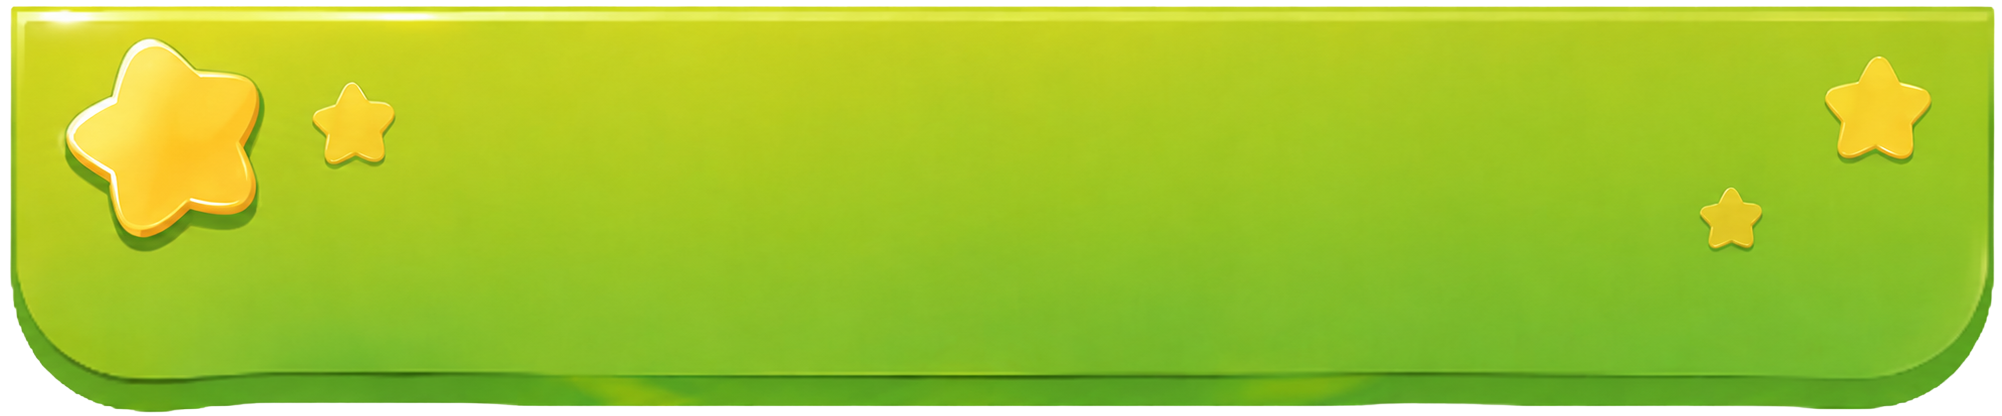
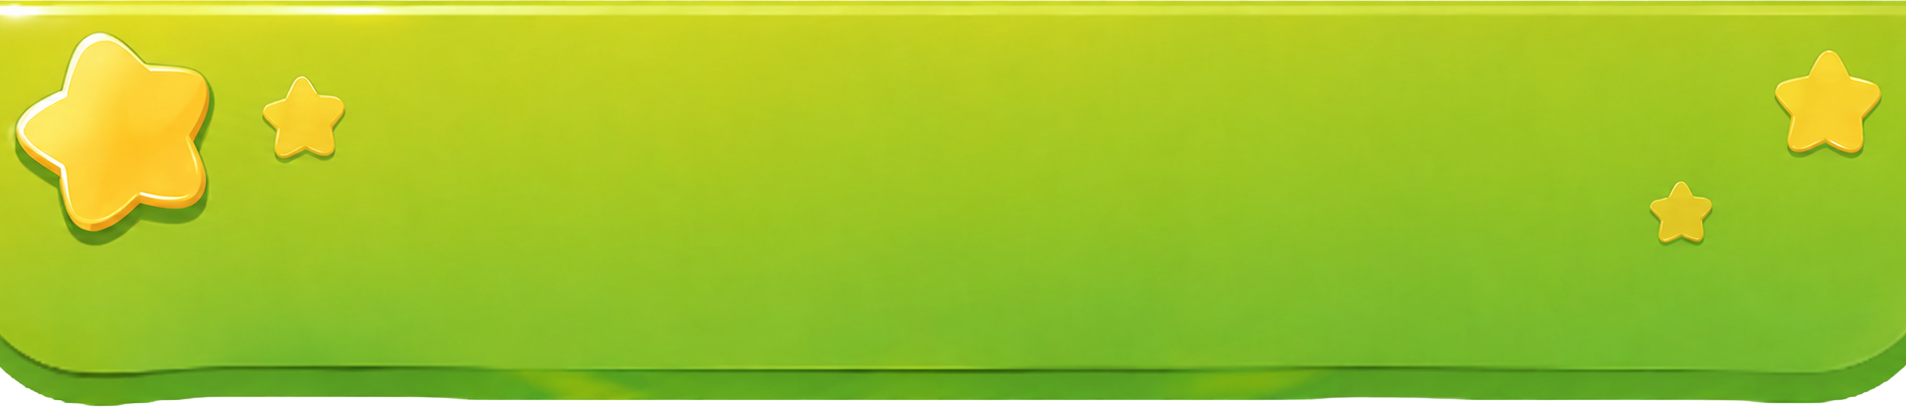
update code

diff --git a/web/src/pages/games/spin-wheel/SpinWheelGamePage.tsx b/web/src/pages/games/spin-wheel/SpinWheelGamePage.tsx
@@ -1,4 +1,4 @@
-import { useEffect, useState } from 'react';
+import { useEffect, useState, type CSSProperties } from 'react';
 import { useTranslation } from 'react-i18next';
 import { formatKen } from '@lib';
 import { FullScreenOverlay } from '@components';
@@ -26,6 +26,14 @@ import {
 } from './spinWheelAssets';
 
 const TEXT_SHADOW = { textShadow: '0 2px 4px rgba(0,0,0,0.45)' };
+
+const TITLE_STYLE: CSSProperties = {
+  color: '#ffffff',
+  WebkitTextStroke: '3px #6b4a1c',
+  paintOrder: 'stroke fill',
+  textShadow: '0 3px 4px rgba(0,0,0,0.35)',
+  letterSpacing: '0.02em',
+};
 
 interface SpinWheelGamePageProps {
   onClose: () => void;
@@ -62,52 +70,54 @@ export function SpinWheelGamePage({ onClose }: SpinWheelGamePageProps) {
   return (
     <FullScreenOverlay z={60}>
       <div
-        className="h-full w-full overflow-y-auto bg-cover bg-center"
+        className="h-full w-full overflow-x-hidden overflow-y-auto bg-cover bg-center"
         style={{ backgroundImage: `url(${backgroundUrl})` }}
       >
-        <div className="mx-auto w-full max-w-[480px] pb-8">
-          <header className="relative w-full">
-            <img src={titleBannerUrl} alt="" className="block w-full" />
-            <div className="absolute inset-x-0 top-0 bottom-[16%] flex items-center justify-center">
-              <span
-                className="px-14 text-center text-xl font-extrabold text-white"
-                style={TEXT_SHADOW}
-              >
-                {t('wheelGame.title')}
-              </span>
-              <button
-                type="button"
-                onClick={onClose}
-                aria-label={t('wheelGame.close')}
-                className="absolute right-4 top-1/2 h-8 w-8 -translate-y-1/2 active:scale-95"
-              >
-                <img src={closeButtonUrl} alt="" className="h-full w-full" />
-              </button>
-            </div>
-          </header>
+        <header
+          className="relative flex w-full items-center justify-center"
+          style={{
+            backgroundImage: `url(${titleBannerUrl})`,
+            backgroundSize: '100% 100%',
+            aspectRatio: '1906 / 360',
+          }}
+        >
+          <span className="px-14 text-center text-2xl font-extrabold text-white" style={TITLE_STYLE}>
+            {t('wheelGame.title')}
+          </span>
+          <button
+            type="button"
+            onClick={onClose}
+            aria-label={t('wheelGame.close')}
+            className="absolute right-4 top-1/2 h-8 w-8 -translate-y-1/2 active:scale-95"
+          >
+            <img src={closeButtonUrl} alt="" className="h-full w-full" />
+          </button>
+        </header>
 
-          <div className="flex flex-col items-center px-4">
-            <div className="mt-4 flex items-center">
-              <div className="relative w-[220px]">
-                <img src={kenBarUrl} alt="" className="w-full" />
-                <div className="absolute inset-0 flex items-center gap-1.5 pl-3">
-                  <img src={coinUrl} alt="" className="h-6 w-6 shrink-0" />
-                  <span className="text-sm font-extrabold text-white" style={TEXT_SHADOW}>
-                    {formatKen(ken)} KEN
-                  </span>
-                </div>
-              </div>
+        <div className="flex flex-col items-center px-4 pb-8">
+            <div
+              className="relative mt-4 flex w-[240px] max-w-full items-center gap-1.5 pl-3 pr-12"
+              style={{
+                backgroundImage: `url(${kenBarUrl})`,
+                backgroundSize: '100% 100%',
+                aspectRatio: '2014 / 521',
+              }}
+            >
+              <img src={coinUrl} alt="" className="h-6 w-6 shrink-0" />
+              <span className="truncate text-sm font-extrabold text-white" style={TEXT_SHADOW}>
+                {formatKen(ken)} KEN
+              </span>
               <button
                 type="button"
                 onClick={() => openApp('ken')}
                 aria-label={t('wheelGame.buyKen')}
-                className="relative -ml-3 h-11 w-11 active:scale-95"
+                className="absolute right-1 top-1/2 h-9 w-9 -translate-y-1/2 active:scale-95"
               >
                 <img src={plusFrameUrl} alt="" className="absolute inset-0 h-full w-full" />
                 <img
                   src={plusIconUrl}
                   alt=""
-                  className="absolute left-1/2 top-1/2 h-5 w-5 -translate-x-1/2 -translate-y-1/2"
+                  className="absolute left-1/2 top-1/2 h-4 w-4 -translate-x-1/2 -translate-y-1/2"
                 />
               </button>
             </div>
@@ -124,7 +134,7 @@ export function SpinWheelGamePage({ onClose }: SpinWheelGamePageProps) {
               type="button"
               disabled={!canSpin}
               onClick={() => useSpinWheelStore.getState().spin()}
-              className="relative mt-6 w-[260px] active:scale-95 disabled:opacity-60"
+              className="relative mt-6 w-[260px] max-w-full active:scale-95 disabled:opacity-60"
             >
               <img src={spinButtonUrl} alt="" className="w-full" />
               <span
@@ -135,7 +145,7 @@ export function SpinWheelGamePage({ onClose }: SpinWheelGamePageProps) {
               </span>
             </button>
 
-            <div className="relative mt-3 w-[250px]">
+            <div className="relative mt-3 w-[250px] max-w-full">
               <img src={spinCountNoteUrl} alt="" className="w-full" />
               <span
                 className="absolute inset-0 flex items-center justify-center pl-6 pr-4 text-center text-xs font-semibold text-white"
@@ -145,11 +155,11 @@ export function SpinWheelGamePage({ onClose }: SpinWheelGamePageProps) {
               </span>
             </div>
 
-            <div className="mt-4 flex gap-3">
+            <div className="mt-4 flex w-full max-w-[300px] gap-3">
               <button
                 type="button"
                 onClick={() => useSpinWheelStore.getState().toggleMute()}
-                className="relative h-11 w-[135px] active:scale-95"
+                className="relative h-11 flex-1 active:scale-95"
               >
                 <img src={bottomButtonFrameUrl} alt="" className="absolute inset-0 h-full w-full" />
                 <span
@@ -163,7 +173,7 @@ export function SpinWheelGamePage({ onClose }: SpinWheelGamePageProps) {
               <button
                 type="button"
                 onClick={() => setHistoryOpen(true)}
-                className="relative h-11 w-[135px] active:scale-95"
+                className="relative h-11 flex-1 active:scale-95"
               >
                 <img src={bottomButtonFrameUrl} alt="" className="absolute inset-0 h-full w-full" />
                 <span
@@ -176,7 +186,6 @@ export function SpinWheelGamePage({ onClose }: SpinWheelGamePageProps) {
               </button>
             </div>
           </div>
-        </div>
       </div>
 
       {result != null && (

diff --git a/web/src/pages/apps/constants.ts b/web/src/pages/apps/constants.ts
@@ -50,6 +50,7 @@ export const APP_ITEMS: AppItem[] = [
   { icon: iconNotify, app: 'notifications' },
   { icon: iconEgg, overlay: 'egg' },
   { icon: iconPen, overlay: 'pen' },
+  // TODO(Vòng Quay May Mắn): game đang mock client-side (random + KEN/lượt cục bộ), CHƯA nối backend /wheel — thay logic trong spinWheelStore.spin() bằng service khi có API
   { icon: iconWheel, overlay: 'wheel' },
   { icon: iconGame, subtitleKey: 'home.appGameSubtitle' },
   { icon: iconPersonal, app: 'profile' },
